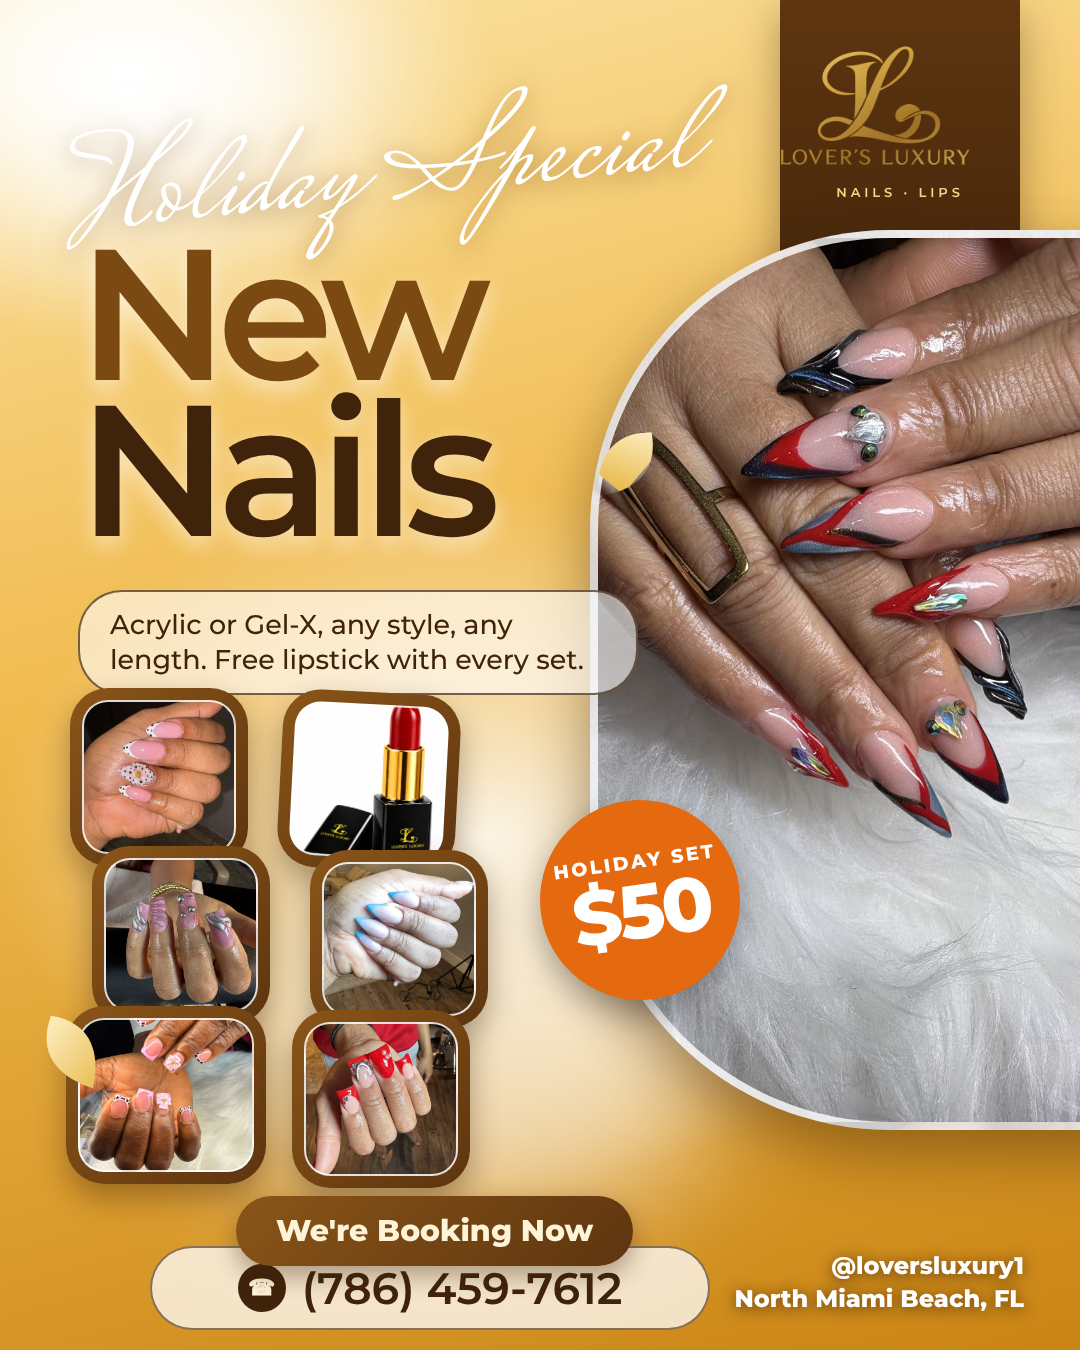
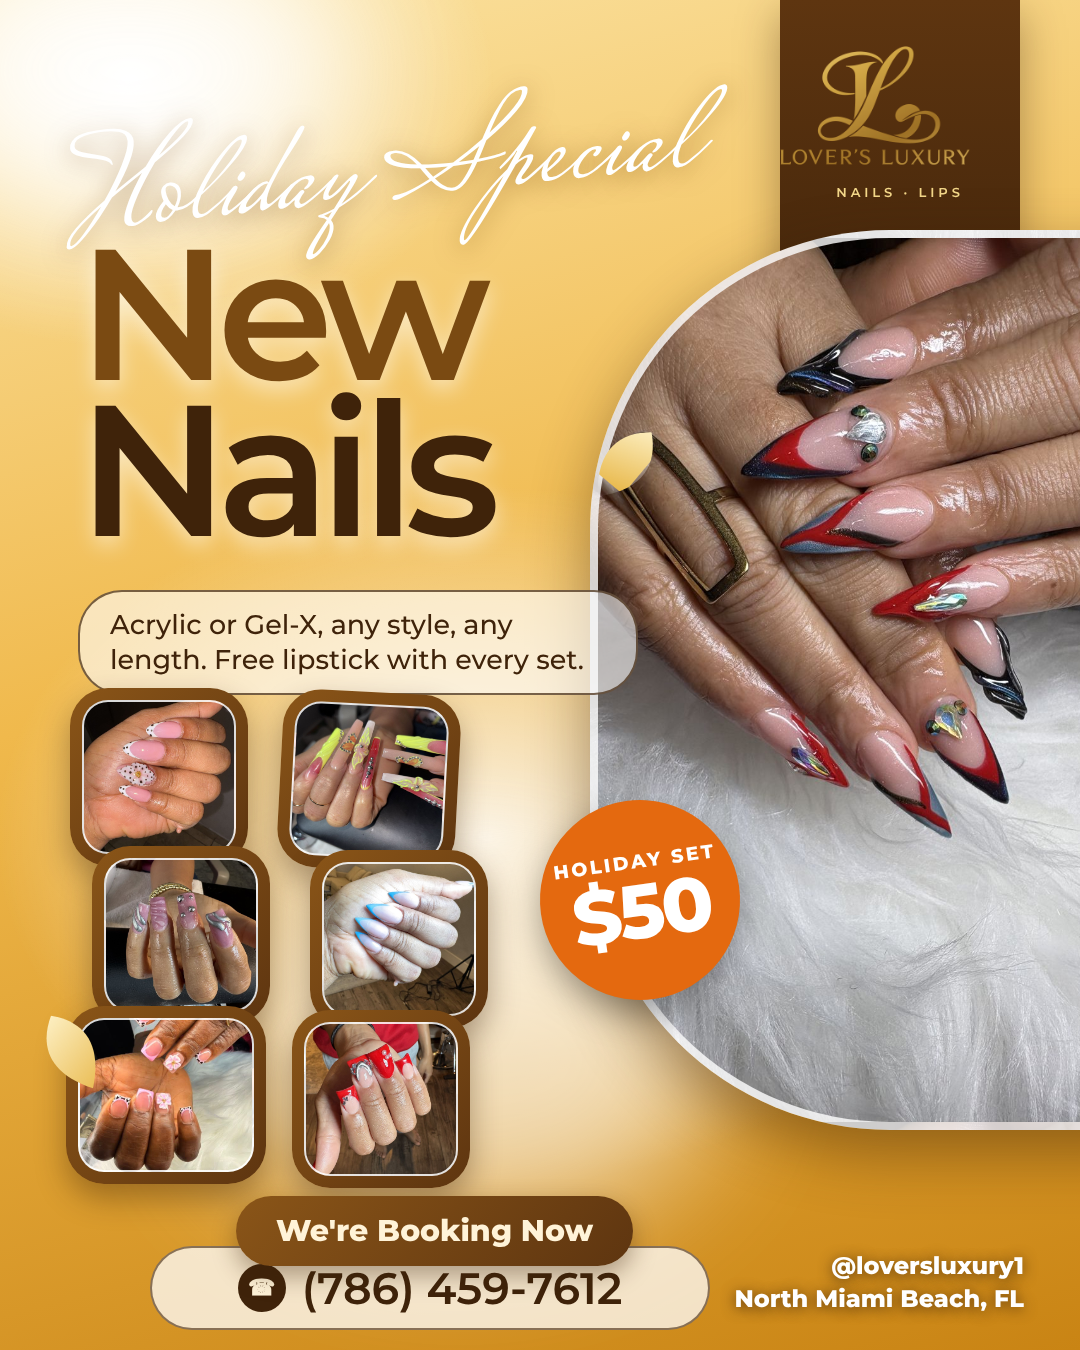
Replace lipstick tile with a nail photo in flyer v5
Claude-Session: https://claude.ai/code/session_01JdEEXAook8G3CFsvxN5Wsp

Changed region(s): [[0.2444, 0.4978, 0.4278, 0.6533]]

diff --git a/flyer/flyer5.html b/flyer/flyer5.html
@@ -35,7 +35,7 @@ background:radial-gradient(520px 380px at 12% 6%,#fff 0%,rgba(255,255,255,0) 70%
 <div class="pill">Acrylic or Gel-X, any style, any length. Free lipstick with every set.</div>
 <div class="tiles">
  <div class="t" style="left:0;top:0"><i style="background-image:url(images/work/09-polka-flower.jpg)"></i></div>
- <div class="t" style="left:210px;top:4px;transform:rotate(3deg)"><i style="background-image:url(images/shop/r-red.jpg);background-position:60% 30%"></i></div>
+ <div class="t" style="left:210px;top:4px;transform:rotate(3deg)"><i style="background-image:url(images/work/10-neon-butterfly-xl.jpg);background-position:50% 40%"></i></div>
  <div class="t" style="left:22px;top:158px"><i style="background-image:url(images/work/07-chrome-swirls.jpg)"></i></div>
  <div class="t" style="left:240px;top:162px"><i style="background-image:url(images/work/08-blue-french-stiletto.jpg)"></i></div>
  <div class="t" style="left:-4px;top:318px;width:200px;height:178px"><i style="background-image:url(images/work/12-cow-print-flower.jpg)"></i></div>
